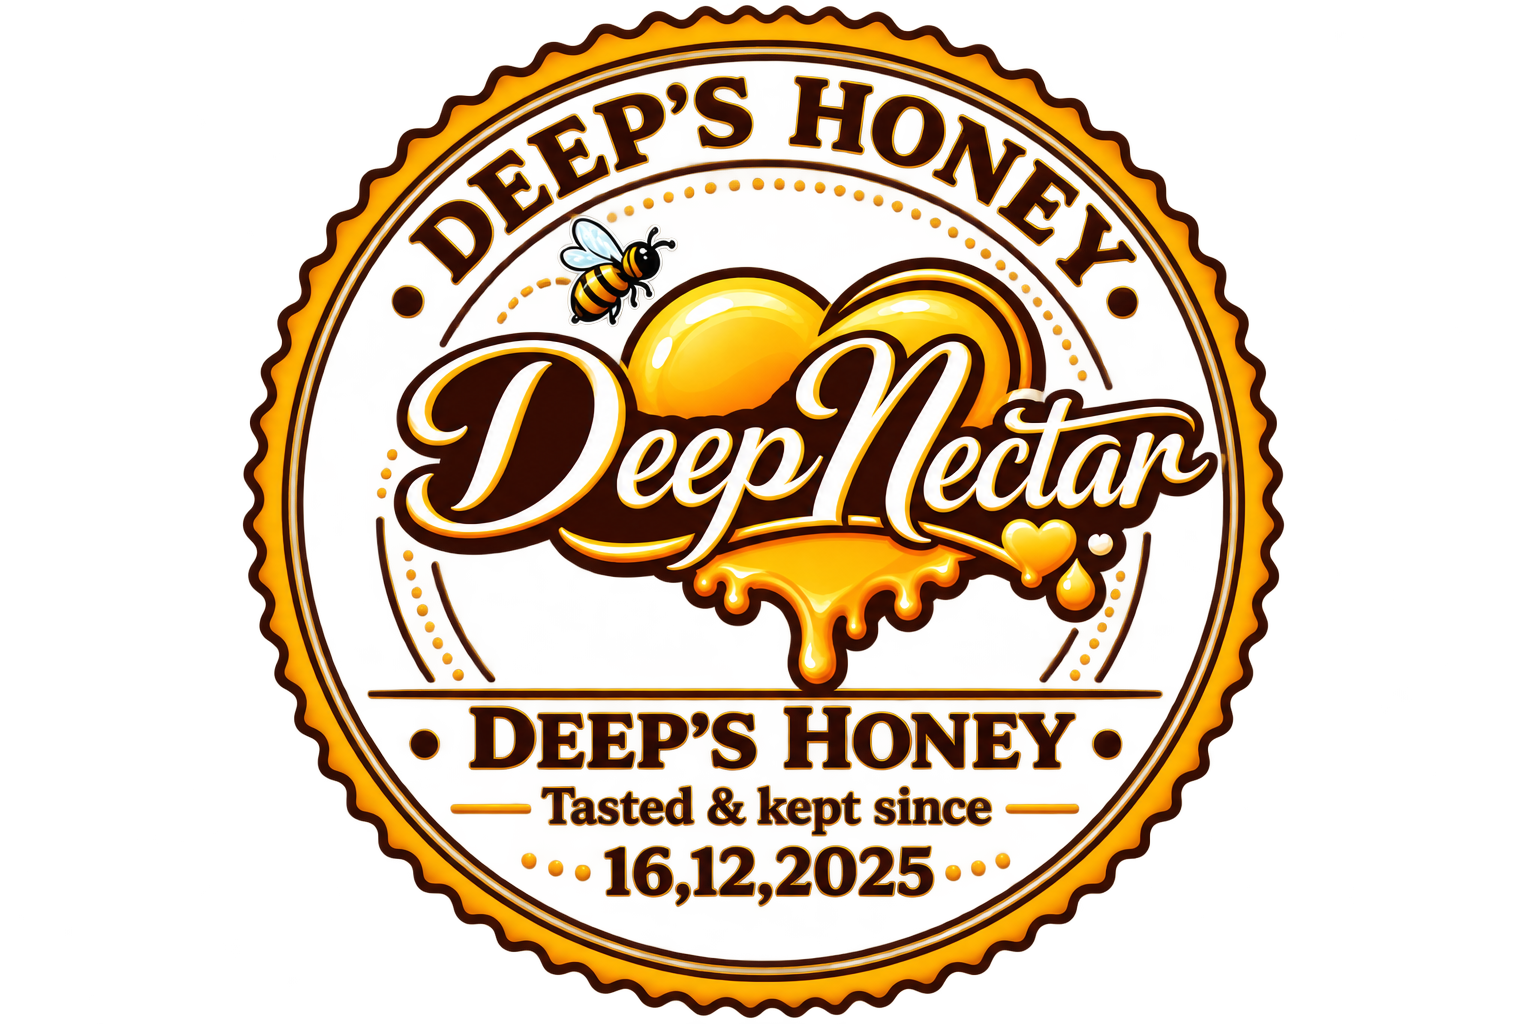
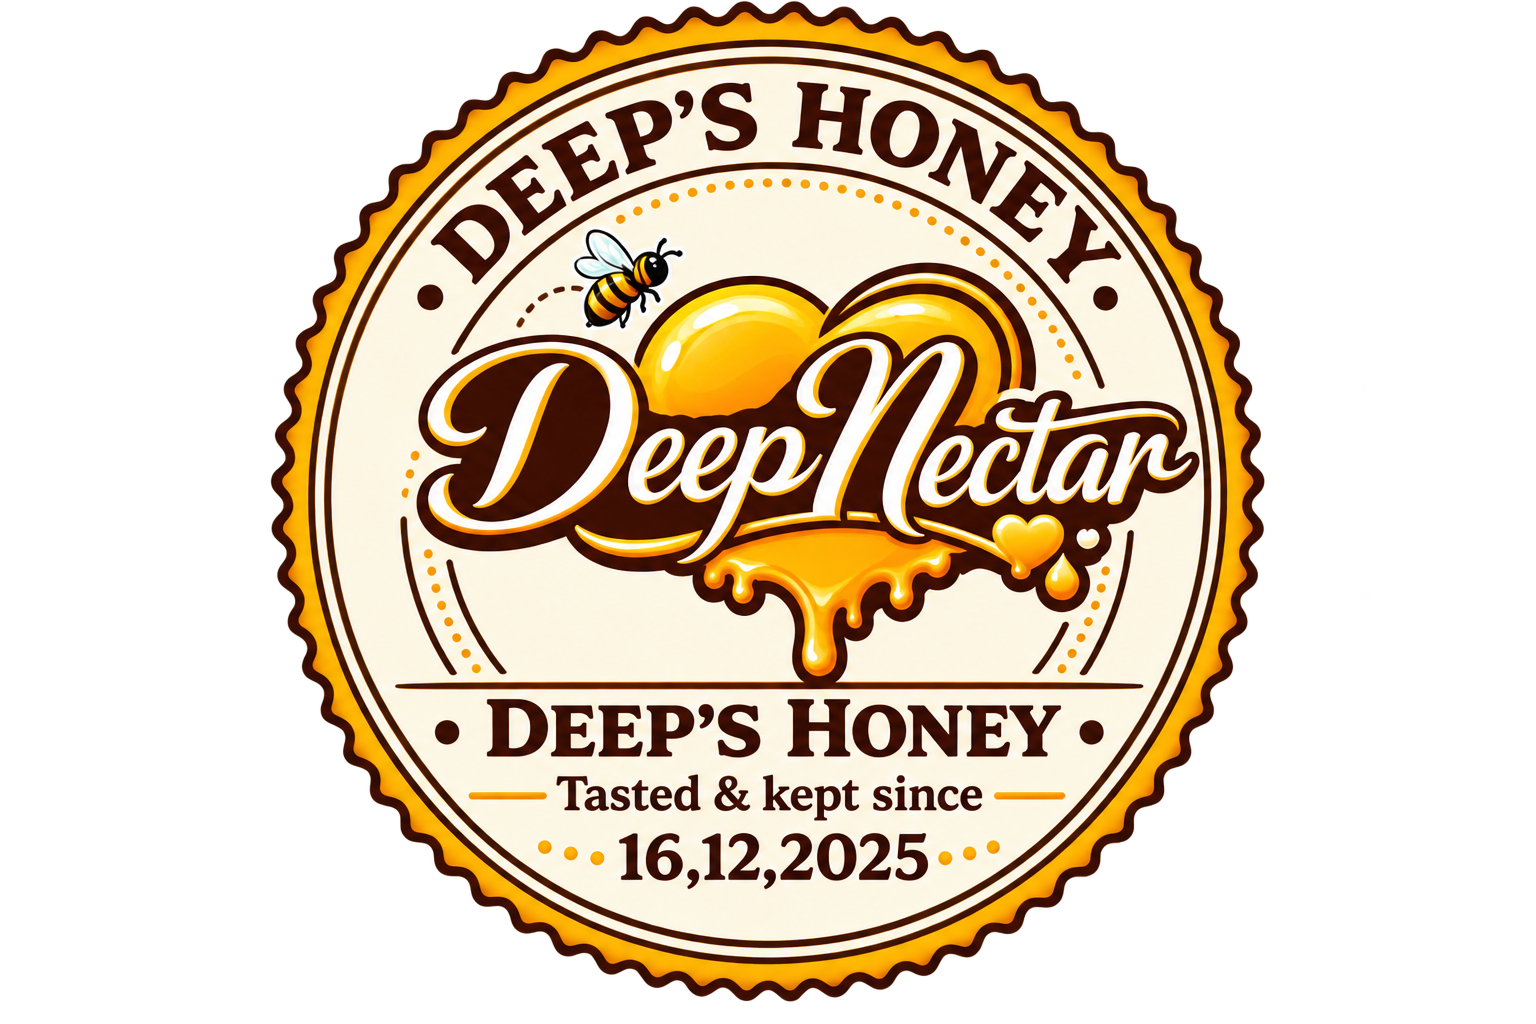
Replace love stamp image with new Google Drive asset
- Updated assets/love-stamp.png with new binary content from provided Drive link
- Modified README.md to reflect the new Love Stamp source URL and file ID in branding assets table

diff --git a/README.md b/README.md
@@ -34,7 +34,7 @@ Local preview: `python3 -m http.server 8000` then open http://localhost:8000
 | Asset | URL | Used in |
 |---|---|---|
 | Soulmate Logo | `https://lh3.googleusercontent.com/d/1eoI5L95RQxWzs0yaDrFMtst2FFsbK_Ny` | Favicon, Apple touch icon, login screen, app header, email export |
-| Love Stamp | `assets/love-stamp.png` (bundled local copy of Drive file `1YbINJdZNlQsiVb1wvtEX0pRPNcZPYozg`) | Sign-off section, footer, email export |
+| Love Stamp | `assets/love-stamp.png` (bundled local copy of Drive file `1xT4SnUR8dtEHP14MUMFZnYZnumAS96Fw`) | Sign-off section, footer, email export |
 
 > Note: The love stamp is now served from the repo itself (`assets/love-stamp.png`) so it always renders on the deployed site — no dependence on Google Drive redirects or sharing permissions. The email export references it via the repo's raw GitHub URL because email clients can't load relative paths.
 
